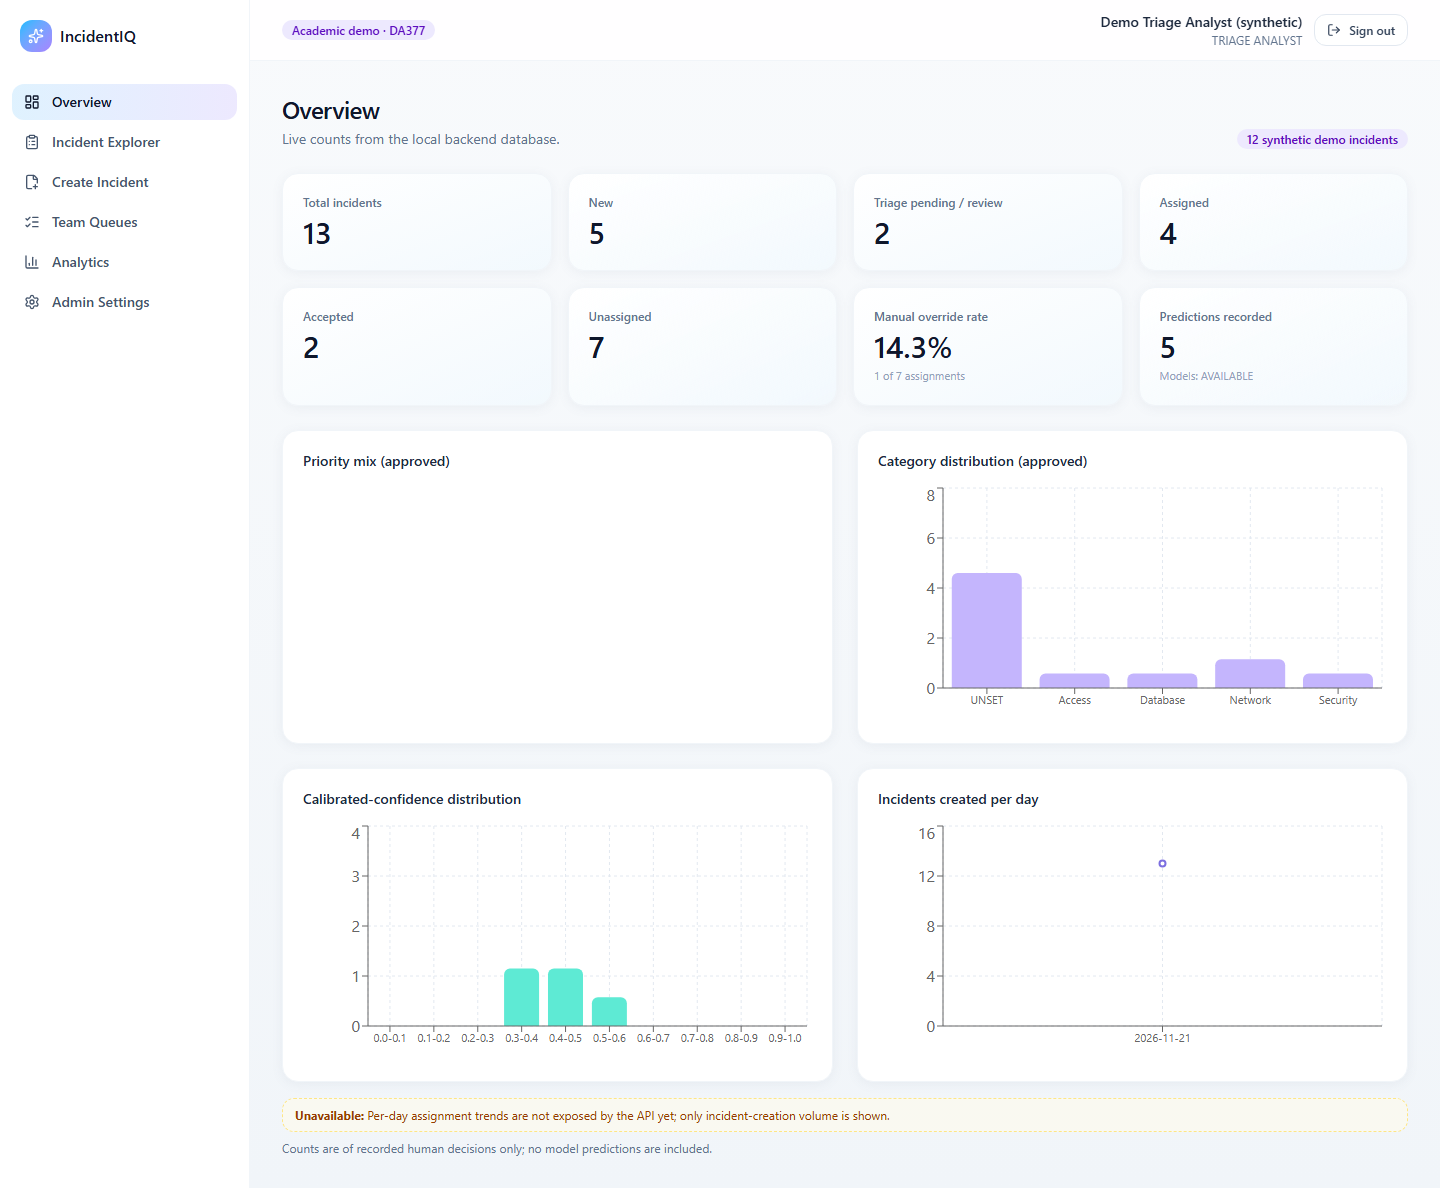
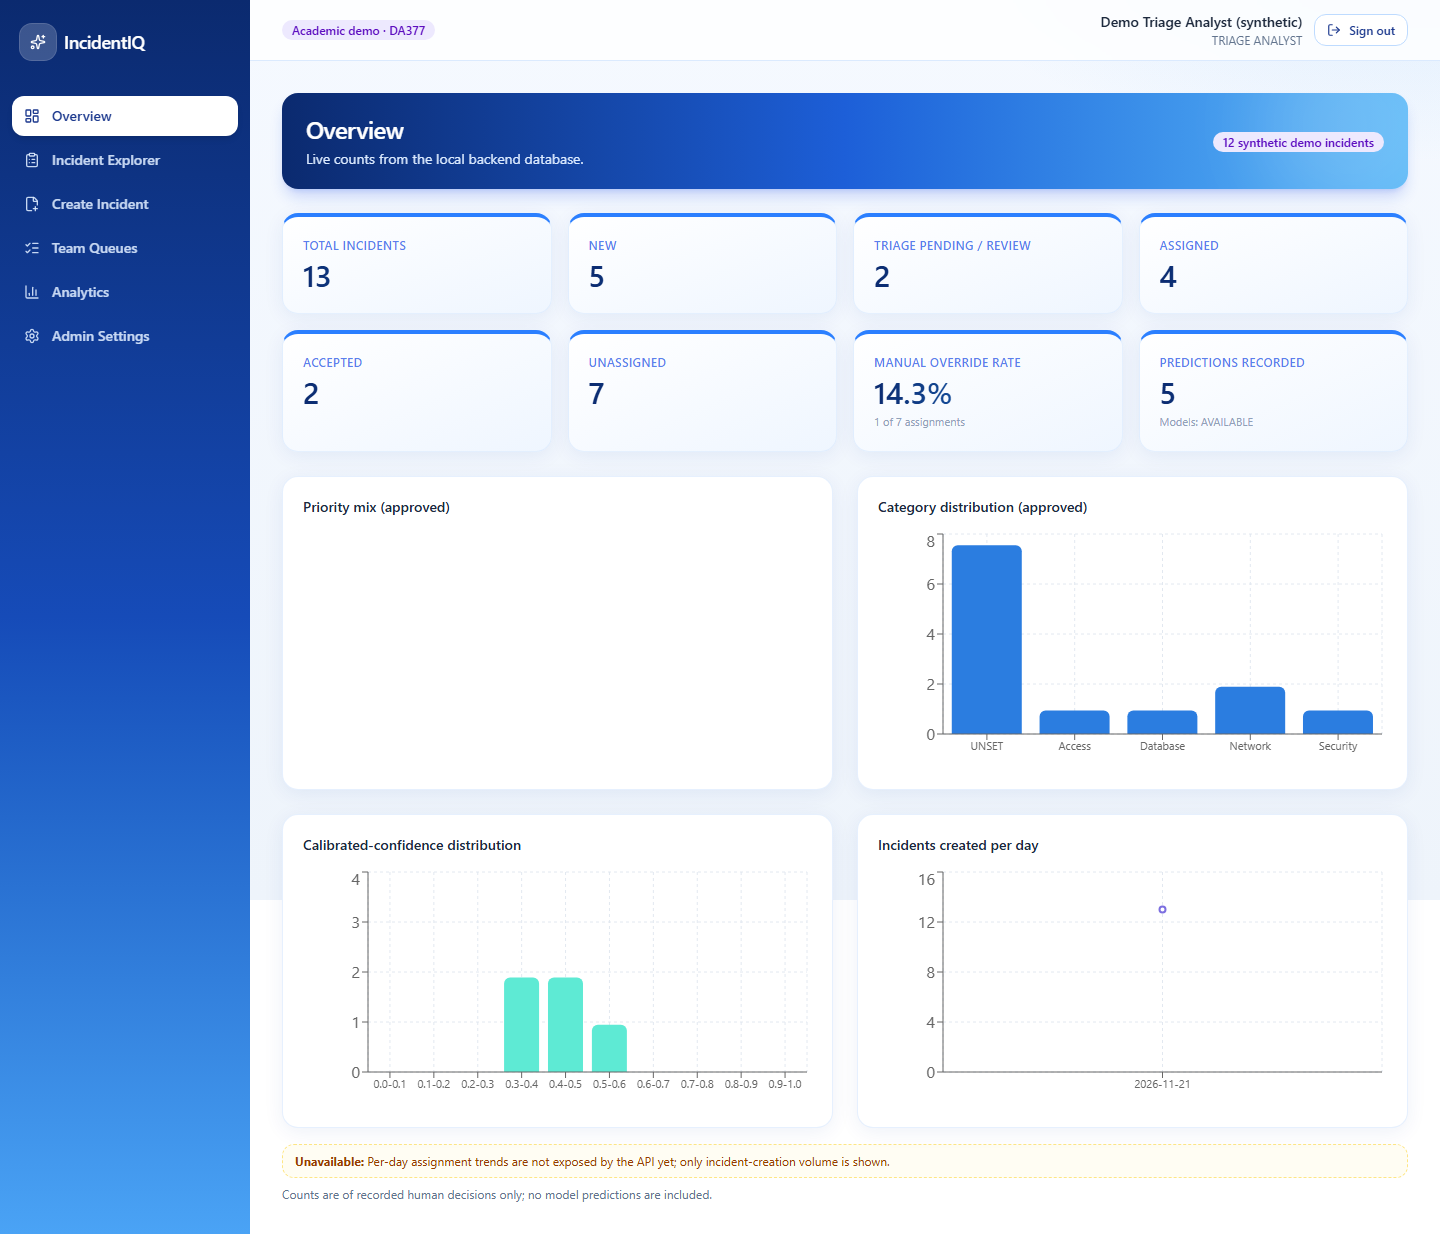
feat(frontend): blue gradient visual redesign (light theme)

diff --git a/frontend/src/components/layout/AppShell.tsx b/frontend/src/components/layout/AppShell.tsx
@@ -39,8 +39,8 @@ export function AppShell() {
           onClick={() => setOpen(false)}
           className={({ isActive }) =>
             cn(
-              "flex items-center gap-3 rounded-xl px-3 py-2 text-sm font-medium text-slate-600 hover:bg-sky-50",
-              isActive && "bg-gradient-to-r from-sky-100 to-violet-100 text-slate-900",
+              "flex items-center gap-3 rounded-xl px-3 py-2.5 text-sm font-medium text-blue-100/90 transition-colors hover:bg-white/10 hover:text-white",
+              isActive && "bg-white text-blue-900 shadow-md hover:bg-white hover:text-blue-900",
             )
           }
         >
@@ -52,22 +52,24 @@ export function AppShell() {
 
   return (
     <div className="min-h-screen lg:grid lg:grid-cols-[250px_1fr]">
-      <aside className="hidden border-r border-slate-100 bg-white lg:block">
-        <div className="flex items-center gap-2 px-5 py-5">
-          <span className="grid h-8 w-8 place-items-center rounded-xl bg-gradient-to-br from-sky-400 to-violet-400 text-white">
-            <Sparkles className="h-4 w-4" aria-hidden />
-          </span>
-          <span className="font-semibold text-slate-900">IncidentIQ</span>
+      <aside className="hidden bg-gradient-to-b from-[#0b2a6f] via-[#164bb8] to-[#4aa3f5] lg:block">
+        <div className="sticky top-0">
+          <div className="flex items-center gap-2 px-5 py-6">
+            <span className="grid h-9 w-9 place-items-center rounded-xl bg-white/20 text-white ring-1 ring-white/30">
+              <Sparkles className="h-4 w-4" aria-hidden />
+            </span>
+            <span className="text-lg font-semibold tracking-tight text-white">IncidentIQ</span>
+          </div>
+          {nav}
         </div>
-        {nav}
       </aside>
 
       {open && (
-        <div className="fixed inset-0 z-30 bg-slate-900/20 lg:hidden" onClick={() => setOpen(false)}>
-          <aside className="h-full w-64 bg-white shadow-xl" onClick={(e) => e.stopPropagation()}>
+        <div className="fixed inset-0 z-30 bg-slate-900/30 lg:hidden" onClick={() => setOpen(false)}>
+          <aside className="h-full w-64 bg-gradient-to-b from-[#0b2a6f] via-[#164bb8] to-[#4aa3f5] shadow-xl" onClick={(e) => e.stopPropagation()}>
             <div className="flex items-center justify-between px-5 py-5">
-              <span className="font-semibold">IncidentIQ</span>
-              <Button variant="ghost" size="icon" aria-label="Close menu" onClick={() => setOpen(false)}>
+              <span className="font-semibold text-white">IncidentIQ</span>
+              <Button variant="ghost" size="icon" className="text-white hover:bg-white/10" aria-label="Close menu" onClick={() => setOpen(false)}>
                 <X className="h-4 w-4" />
               </Button>
             </div>
@@ -77,7 +79,7 @@ export function AppShell() {
       )}
 
       <div className="min-w-0">
-        <header className="sticky top-0 z-20 flex items-center justify-between border-b border-slate-100 bg-white/90 px-4 py-3 backdrop-blur lg:px-8">
+        <header className="sticky top-0 z-20 flex items-center justify-between border-b border-blue-100 bg-white/80 px-4 py-3 backdrop-blur lg:px-8">
           <div className="flex items-center gap-2">
             <Button variant="ghost" size="icon" className="lg:hidden" aria-label="Open menu" onClick={() => setOpen(true)}>
               <Menu className="h-5 w-5" />

diff --git a/frontend/src/components/ui/primitives.tsx b/frontend/src/components/ui/primitives.tsx
@@ -2,7 +2,7 @@ import * as React from "react";
 import { cn } from "@/lib/utils";
 
 export function Card({ className, ...props }: React.HTMLAttributes<HTMLDivElement>) {
-  return <div className={cn("rounded-2xl border border-slate-100 bg-white shadow-[0_2px_12px_rgba(100,116,139,0.08)]", className)} {...props} />;
+  return <div className={cn("rounded-2xl border border-blue-100/70 bg-white shadow-[0_4px_20px_rgba(18,58,153,0.07)] transition-shadow hover:shadow-[0_6px_26px_rgba(18,58,153,0.12)]", className)} {...props} />;
 }
 export function CardHeader({ className, ...props }: React.HTMLAttributes<HTMLDivElement>) {
   return <div className={cn("flex items-start justify-between gap-3 px-5 pt-5", className)} {...props} />;
@@ -21,7 +21,7 @@ export function Badge({
 }: React.HTMLAttributes<HTMLSpanElement> & { tone?: "slate" | "sky" | "teal" | "violet" | "amber" | "rose" | "green" }) {
   const tones = {
     slate: "bg-slate-100 text-slate-700",
-    sky: "bg-sky-100 text-sky-800",
+    sky: "bg-blue-100 text-blue-800",
     teal: "bg-teal-100 text-teal-800",
     violet: "bg-violet-100 text-violet-800",
     amber: "bg-amber-100 text-amber-800",
@@ -37,7 +37,7 @@ export const Input = React.forwardRef<HTMLInputElement, React.InputHTMLAttribute
   ({ className, ...props }, ref) => (
     <input
       ref={ref}
-      className={cn("h-10 w-full rounded-xl border border-slate-200 bg-white px-3 text-sm placeholder:text-slate-400 focus:border-sky-400", className)}
+      className={cn("h-10 w-full rounded-xl border border-blue-100 bg-white px-3 text-sm placeholder:text-slate-400 focus:border-blue-500", className)}
       {...props}
     />
   ),
@@ -48,7 +48,7 @@ export const Textarea = React.forwardRef<HTMLTextAreaElement, React.TextareaHTML
   ({ className, ...props }, ref) => (
     <textarea
       ref={ref}
-      className={cn("min-h-24 w-full rounded-xl border border-slate-200 bg-white px-3 py-2 text-sm placeholder:text-slate-400 focus:border-sky-400", className)}
+      className={cn("min-h-24 w-full rounded-xl border border-blue-100 bg-white px-3 py-2 text-sm placeholder:text-slate-400 focus:border-blue-500", className)}
       {...props}
     />
   ),
@@ -59,7 +59,7 @@ export const Select = React.forwardRef<HTMLSelectElement, React.SelectHTMLAttrib
   ({ className, ...props }, ref) => (
     <select
       ref={ref}
-      className={cn("h-10 w-full rounded-xl border border-slate-200 bg-white px-3 text-sm focus:border-sky-400", className)}
+      className={cn("h-10 w-full rounded-xl border border-blue-100 bg-white px-3 text-sm focus:border-blue-500", className)}
       {...props}
     />
   ),

diff --git a/frontend/src/pages/LoginPage.tsx b/frontend/src/pages/LoginPage.tsx
@@ -28,10 +28,28 @@ export default function LoginPage() {
   if (user) return <Navigate to={(location.state as { from?: string } | null)?.from ?? "/"} replace />;
 
   return (
-    <div className="grid min-h-screen place-items-center bg-gradient-to-br from-sky-50 via-white to-violet-50 p-4">
+    <div className="grid min-h-screen lg:grid-cols-2">
+      <div className="relative hidden flex-col justify-between overflow-hidden bg-gradient-to-br from-[#0b2a6f] via-[#1d5fd8] to-[#7cc4fb] p-12 text-white lg:flex">
+        <div aria-hidden className="absolute -right-24 -top-24 h-96 w-96 rounded-full bg-white/10 blur-3xl" />
+        <div aria-hidden className="absolute -bottom-32 -left-16 h-96 w-96 rounded-full bg-sky-200/20 blur-3xl" />
+        <div className="relative flex items-center gap-2 text-lg font-semibold">
+          <span className="grid h-10 w-10 place-items-center rounded-xl bg-white/20 ring-1 ring-white/30">
+            <Sparkles className="h-5 w-5" aria-hidden />
+          </span>
+          IncidentIQ
+        </div>
+        <div className="relative space-y-4">
+          <h2 className="text-4xl font-semibold leading-tight">Explainable triage for IT incidents.</h2>
+          <p className="max-w-md text-blue-100">
+            Classify, prioritise and route with transparent models, calibrated confidence and a human-approved audit trail.
+          </p>
+        </div>
+        <p className="relative text-xs text-blue-100">IIT Guwahati · DA377 · academic demonstration</p>
+      </div>
+      <div className="grid place-items-center bg-gradient-to-br from-blue-50 via-white to-sky-50 p-4">
       <Card className="w-full max-w-sm p-6">
         <div className="mb-5 flex items-center gap-2">
-          <span className="grid h-9 w-9 place-items-center rounded-xl bg-gradient-to-br from-sky-400 to-violet-400 text-white">
+          <span className="grid h-9 w-9 place-items-center rounded-xl bg-gradient-to-br from-[#123a99] to-[#38a8f5] text-white">
             <Sparkles className="h-4 w-4" aria-hidden />
           </span>
           <div>
@@ -71,6 +89,7 @@ export default function LoginPage() {
           <code>DEMO_PASSWORD</code> you set when seeding the backend.
         </p>
       </Card>
+      </div>
     </div>
   );
 }

diff --git a/frontend/src/components/common.tsx b/frontend/src/components/common.tsx
@@ -34,12 +34,13 @@ export function SyntheticBadge() {
 
 export function PageHeader({ title, subtitle, actions }: { title: string; subtitle?: string; actions?: ReactNode }) {
   return (
-    <div className="mb-6 flex flex-wrap items-end justify-between gap-3">
-      <div>
-        <h1 className="text-2xl font-semibold tracking-tight text-slate-900">{title}</h1>
-        {subtitle && <p className="mt-1 text-sm text-slate-500">{subtitle}</p>}
+    <div className="relative mb-6 flex flex-wrap items-center justify-between gap-3 overflow-hidden rounded-2xl bg-gradient-to-r from-[#0b2a6f] via-[#1d5fd8] to-[#5bb8f7] px-6 py-5 shadow-lg shadow-blue-700/20">
+      <div aria-hidden className="pointer-events-none absolute -right-10 -top-16 h-48 w-48 rounded-full bg-white/15 blur-2xl" />
+      <div className="relative">
+        <h1 className="text-2xl font-semibold tracking-tight text-white">{title}</h1>
+        {subtitle && <p className="mt-1 text-sm text-blue-100">{subtitle}</p>}
       </div>
-      {actions}
+      <div className="relative">{actions}</div>
     </div>
   );
 }
@@ -47,7 +48,7 @@ export function PageHeader({ title, subtitle, actions }: { title: string; subtit
 export function EmptyState({ title, hint }: { title: string; hint?: string }) {
   return (
     <div className="flex flex-col items-center gap-2 rounded-2xl border border-dashed border-slate-200 bg-white/60 px-6 py-10 text-center">
-      <Inbox className="h-8 w-8 text-sky-300" aria-hidden />
+      <Inbox className="h-8 w-8 text-blue-300" aria-hidden />
       <p className="text-sm font-medium text-slate-700">{title}</p>
       {hint && <p className="max-w-md text-xs text-slate-500">{hint}</p>}
     </div>

diff --git a/frontend/src/pages/DashboardPage.tsx b/frontend/src/pages/DashboardPage.tsx
@@ -5,14 +5,14 @@ import { Badge, Card, CardContent, CardHeader, CardTitle } from "@/components/ui
 import { api } from "@/lib/endpoints";
 import { pct } from "@/lib/utils";
 
-export const PALETTE = ["#7dd3fc", "#5eead4", "#c4b5fd", "#a5b4fc", "#99f6e4", "#bae6fd", "#ddd6fe", "#fde68a"];
+export const PALETTE = ["#123a99", "#1d5fd8", "#4aa3f5", "#8cc9fb", "#2dd4bf", "#a5b4fc", "#bfe1fc", "#fde68a"];
 
 function Stat({ label, value, hint }: { label: string; value: string | number; hint?: string }) {
   return (
-    <Card className="bg-gradient-to-br from-white to-sky-50/60">
+    <Card className="overflow-hidden border-t-4 border-t-blue-500 bg-gradient-to-br from-white to-blue-50">
       <CardContent className="space-y-1 pt-5">
-        <p className="text-xs font-medium text-slate-500">{label}</p>
-        <p className="text-3xl font-semibold text-slate-900">{value}</p>
+        <p className="text-xs font-medium uppercase tracking-wide text-blue-700/70">{label}</p>
+        <p className="bg-gradient-to-r from-[#0b2a6f] to-[#2b8de8] bg-clip-text text-3xl font-semibold text-transparent">{value}</p>
         {hint && <p className="text-[11px] text-slate-400">{hint}</p>}
       </CardContent>
     </Card>
@@ -81,7 +81,7 @@ export default function DashboardPage() {
               <XAxis dataKey="name" tick={{ fontSize: 11 }} />
               <YAxis allowDecimals={false} />
               <Tooltip />
-              <Bar dataKey="value" fill="#c4b5fd" radius={[6, 6, 0, 0]} />
+              <Bar dataKey="value" fill="#2b7de0" radius={[6, 6, 0, 0]} />
             </BarChart>
           </ResponsiveContainer>
         </ChartCard>

diff --git a/frontend/src/components/ui/button.tsx b/frontend/src/components/ui/button.tsx
@@ -8,10 +8,10 @@ const buttonVariants = cva(
   {
     variants: {
       variant: {
-        default: "bg-gradient-to-r from-sky-500 to-teal-500 text-white shadow-sm hover:from-sky-600 hover:to-teal-600",
-        secondary: "bg-violet-100 text-violet-800 hover:bg-violet-200",
-        outline: "border border-slate-200 bg-white text-slate-700 hover:bg-slate-50",
-        ghost: "text-slate-600 hover:bg-slate-100",
+        default: "bg-gradient-to-r from-[#123a99] via-[#1d5fd8] to-[#38a8f5] text-white shadow-md shadow-blue-600/25 hover:brightness-110 hover:shadow-lg",
+        secondary: "bg-sky-100 text-blue-900 hover:bg-sky-200",
+        outline: "border border-blue-200 bg-white text-blue-900 hover:bg-blue-50",
+        ghost: "text-slate-600 hover:bg-blue-50",
         danger: "bg-rose-50 text-rose-700 border border-rose-200 hover:bg-rose-100",
       },
       size: { default: "h-10 px-4", sm: "h-8 px-3 text-xs", icon: "h-9 w-9" },

diff --git a/frontend/src/index.css b/frontend/src/index.css
@@ -10,13 +10,22 @@
 
 body {
   margin: 0;
-  background: linear-gradient(180deg, #f8fafc 0%, #f1f5f9 100%);
+  background:
+    radial-gradient(900px 420px at 100% -10%, rgba(74, 163, 245, 0.16), transparent 60%),
+    radial-gradient(700px 380px at -10% 0%, rgba(29, 95, 216, 0.1), transparent 60%),
+    linear-gradient(180deg, #f5f9ff 0%, #eef4fb 100%);
+  background-attachment: fixed;
   color: #1e293b;
   font-family: var(--font-sans);
   min-height: 100vh;
 }
 
 :focus-visible {
-  outline: 2px solid #7c6fe0;
+  outline: 2px solid #1d5fd8;
   outline-offset: 2px;
+}
+
+table thead th {
+  background: linear-gradient(180deg, #eef6ff, #e4f0fd);
+  color: #123a99;
 }

diff --git a/frontend/src/components/IncidentTable.tsx b/frontend/src/components/IncidentTable.tsx
@@ -19,7 +19,7 @@ export function IncidentTable({
   const { teamName } = useTeams();
   if (items.length === 0) return <EmptyState title="No incidents match" hint={emptyHint} />;
   return (
-    <div className="overflow-x-auto rounded-2xl border border-slate-100 bg-white">
+    <div className="overflow-x-auto rounded-2xl border border-blue-100 bg-white shadow-[0_4px_20px_rgba(18,58,153,0.07)]">
       <table className="w-full min-w-[720px] text-left text-sm">
         <caption className="sr-only">Incidents</caption>
         <thead className="bg-slate-50 text-xs uppercase tracking-wide text-slate-500">

diff --git a/frontend/src/components/triage/AiPanels.tsx b/frontend/src/components/triage/AiPanels.tsx
@@ -22,7 +22,7 @@ function Panel({
   tone: "sky" | "teal" | "violet";
   children: ReactNode;
 }) {
-  const border = { sky: "border-t-sky-300", teal: "border-t-teal-300", violet: "border-t-violet-300" }[tone];
+  const border = { sky: "border-t-blue-500", teal: "border-t-teal-400", violet: "border-t-violet-400" }[tone];
   return (
     <Card className={`border-t-4 ${border}`}>
       <CardHeader>
